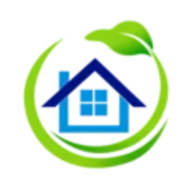
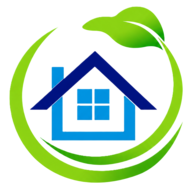
PWA: icônes HD (758px source) + cache v3

diff --git a/app/manifest.ts b/app/manifest.ts
@@ -13,9 +13,9 @@ export default function manifest(): MetadataRoute.Manifest {
     theme_color: "#0A2A6B",
     lang: "fr",
     icons: [
-      { src: "/images/icon-192.png?v=2", sizes: "192x192", type: "image/png" },
-      { src: "/images/icon-512.png?v=2", sizes: "512x512", type: "image/png" },
-      { src: "/images/icon-maskable.png?v=2", sizes: "512x512", type: "image/png", purpose: "maskable" },
+      { src: "/images/icon-192.png?v=3", sizes: "192x192", type: "image/png" },
+      { src: "/images/icon-512.png?v=3", sizes: "512x512", type: "image/png" },
+      { src: "/images/icon-maskable.png?v=3", sizes: "512x512", type: "image/png", purpose: "maskable" },
     ],
   };
 }

diff --git a/public/sw.js b/public/sw.js
@@ -1,4 +1,4 @@
-const CACHE = "ece-v2";
+const CACHE = "ece-v3";
 const ASSETS = ["/images/logo.webp", "/images/hero-mobile.webp", "/images/icon-192.png"];
 
 self.addEventListener("install", (e) => {
